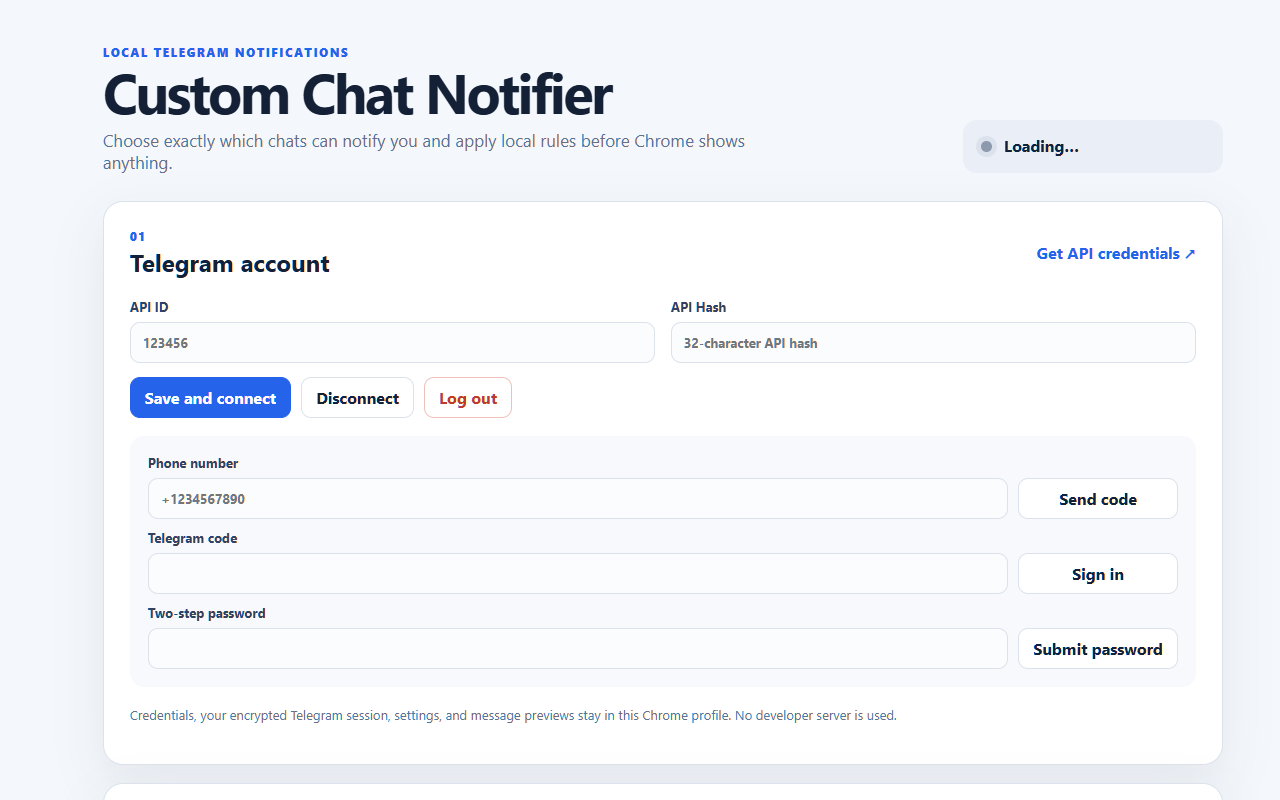
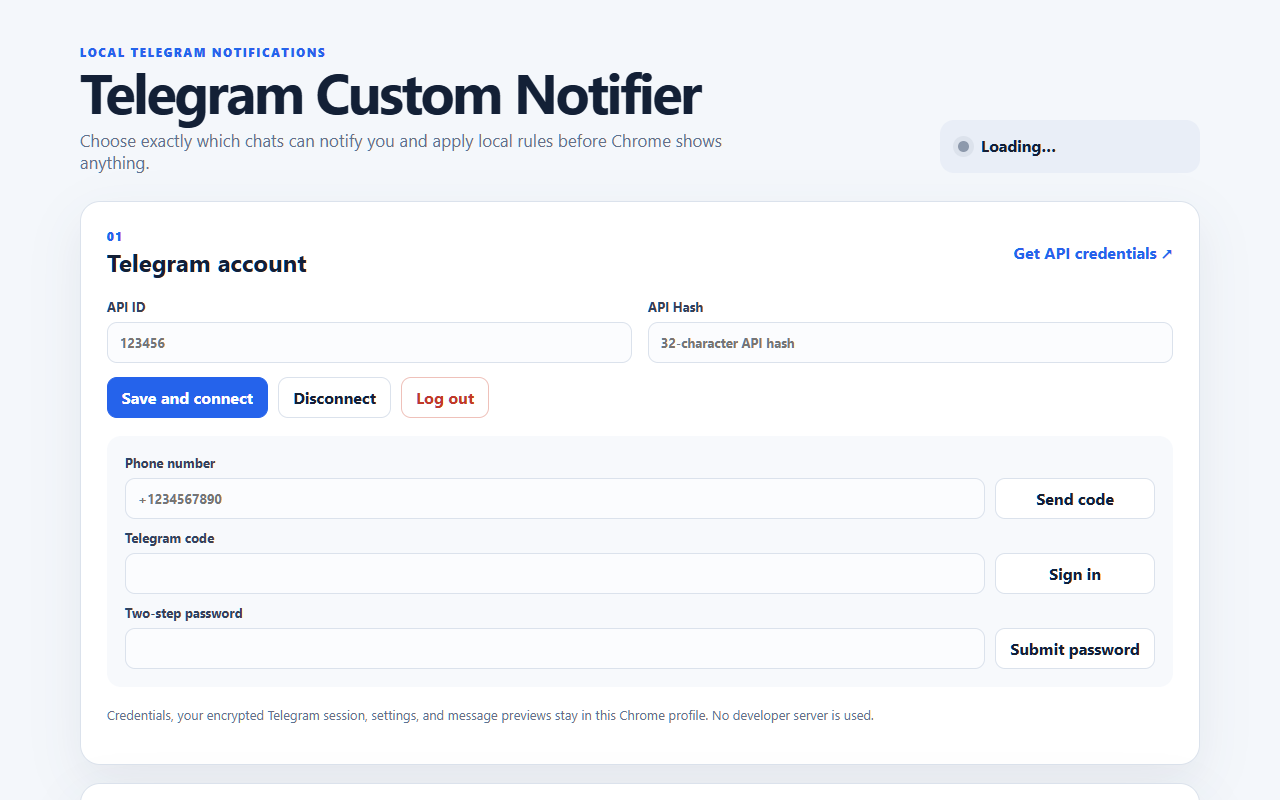
Release Telegram Custom Notifier v1.1.0

diff --git a/tests/config.test.ts b/tests/config.test.ts
@@ -1,5 +1,11 @@
 import { describe, expect, it } from 'vitest'
-import { DEFAULT_CONFIG, normalizeConfig } from '../src/shared/config'
+import {
+  DEFAULT_CONFIG,
+  exportConfig,
+  importConfig,
+  isSettingsBackupFile,
+  normalizeConfig
+} from '../src/shared/config'
 
 describe('normalizeConfig', () => {
   it('returns independent defaults for missing input', () => {
@@ -38,5 +44,76 @@ describe('normalizeConfig', () => {
         '1': { mentionsOnly: true, senderIds: ['42'], threadIds: ['7'], requiredKeywords: ['urgent'] }
       }
     })
+  })
+
+  it('imports the Android settings format', () => {
+    expect(importConfig({
+      version: 1,
+      favoriteChats: [1, -1002],
+      hiddenChats: [3],
+      globalDirection: 'BOTH',
+      chatDirections: { 1: 'OUTGOING' },
+      textFilters: ['spam'],
+      regexFilters: ['buy\\s+now'],
+      notificationsEnabled: false,
+      showMessagePreviews: false,
+      quietHoursEnabled: true,
+      quietStartMinutes: 60,
+      quietEndMinutes: 120,
+      chatRules: {
+        1: { mentionsOnly: true, senderIds: [42], threadIds: [7], requiredKeywords: ['urgent'] }
+      }
+    })).toEqual({
+      version: 1,
+      notificationsEnabled: false,
+      showMessagePreviews: false,
+      selectedChatIds: ['1', '-1002'],
+      hiddenChatIds: ['3'],
+      globalDirection: 'both',
+      chatDirections: { '1': 'outgoing' },
+      textFilters: ['spam'],
+      regexFilters: ['buy\\s+now'],
+      quietHours: { enabled: true, startMinutes: 60, endMinutes: 120 },
+      chatRules: {
+        '1': { mentionsOnly: true, senderIds: ['42'], threadIds: ['7'], requiredKeywords: ['urgent'] }
+      }
+    })
+  })
+
+  it('exports the Android settings format', () => {
+    expect(exportConfig(normalizeConfig({
+      selectedChatIds: ['1'],
+      hiddenChatIds: ['-1002'],
+      globalDirection: 'outgoing',
+      chatDirections: { 1: 'both' },
+      quietHours: { enabled: true, startMinutes: 60, endMinutes: 120 },
+      chatRules: { 1: { mentionsOnly: false, senderIds: ['42'], threadIds: ['7'], requiredKeywords: ['urgent'] } }
+    }))).toEqual({
+      version: 1,
+      favoriteChats: [1],
+      hiddenChats: [-1002],
+      globalDirection: 'OUTGOING',
+      chatDirections: { '1': 'BOTH' },
+      textFilters: [],
+      regexFilters: [],
+      notificationsEnabled: true,
+      showMessagePreviews: true,
+      quietHoursEnabled: true,
+      quietStartMinutes: 60,
+      quietEndMinutes: 120,
+      chatRules: {
+        '1': { mentionsOnly: false, senderIds: [42], threadIds: [7], requiredKeywords: ['urgent'] }
+      }
+    })
+  })
+
+  it('rejects unsupported settings versions', () => {
+    expect(() => importConfig({ version: 2 })).toThrow('Unsupported configuration version: 2')
+  })
+
+  it('recognizes Android and legacy Chrome Saved Messages backups', () => {
+    expect(isSettingsBackupFile('telegram_notifier_settings.json')).toBe(true)
+    expect(isSettingsBackupFile('custom-chat-notifier-settings.json')).toBe(true)
+    expect(isSettingsBackupFile('other.json')).toBe(false)
   })
 })

diff --git a/src/options.ts b/src/options.ts
@@ -1,4 +1,4 @@
-import { normalizeConfig, type AppConfig, type ChatRule, type Direction } from './shared/config'
+import { exportConfig, importConfig, normalizeConfig, SETTINGS_BACKUP_FILE, type AppConfig, type ChatRule, type Direction } from './shared/config'
 import type { AppState, BackgroundMessage, ChatInfo, Credentials } from './shared/protocol'
 
 const element = <T extends HTMLElement>(id: string): T => document.getElementById(id) as T
@@ -204,17 +204,17 @@ element('save-chat-rule').addEventListener('click', (event) => {
   void run(() => saveConfig('Advanced rules saved'))
 })
 
-element('export-settings').addEventListener('click', () => download('custom-chat-notifier-settings.json', JSON.stringify(state.config, null, 2)))
+element('export-settings').addEventListener('click', () => download(SETTINGS_BACKUP_FILE, JSON.stringify(exportConfig(state.config), null, 2)))
 element<HTMLInputElement>('import-settings').addEventListener('change', (event) => { void run(async () => {
   const file = (event.currentTarget as HTMLInputElement).files?.[0]
   if (!file || file.size > 1_000_000) throw new Error('Choose a JSON file smaller than 1 MB')
-  state.config = normalizeConfig(JSON.parse(await file.text()))
+  state.config = importConfig(JSON.parse(await file.text()))
   await saveConfig('Settings imported')
   renderState()
 }) })
-element('backup-saved').addEventListener('click', () => { void run(async () => { await send({ target: 'background', type: 'RUNTIME_COMMAND', command: 'BACKUP_SAVED', payload: state.config }); toast('Backup sent to Saved Messages') }) })
-element('restore-saved').addEventListener('click', () => { void run(async () => { state.config = normalizeConfig(await send({ target: 'background', type: 'RUNTIME_COMMAND', command: 'RESTORE_SAVED' })); await saveConfig('Settings restored from Saved Messages'); renderState() }) })
-element('export-logs').addEventListener('click', () => download('custom-chat-notifier.log', element('logs').textContent ?? '', 'text/plain'))
+element('backup-saved').addEventListener('click', () => { void run(async () => { await send({ target: 'background', type: 'RUNTIME_COMMAND', command: 'BACKUP_SAVED', payload: exportConfig(state.config) }); toast('Backup sent to Saved Messages') }) })
+element('restore-saved').addEventListener('click', () => { void run(async () => { state.config = importConfig(await send({ target: 'background', type: 'RUNTIME_COMMAND', command: 'RESTORE_SAVED' })); await saveConfig('Settings restored from Saved Messages'); renderState() }) })
+element('export-logs').addEventListener('click', () => download('telegram-custom-notifier.log', element('logs').textContent ?? '', 'text/plain'))
 element('clear-logs').addEventListener('click', () => { void run(async () => { await send({ target: 'background', type: 'CLEAR_LOGS' }); state.logs = []; renderLogs(); toast('Log cleared') }) })
 
 chrome.storage.onChanged.addListener((changes, area) => {

diff --git a/src/shared/config.ts b/src/shared/config.ts
@@ -52,6 +52,9 @@ export const DEFAULT_CONFIG: AppConfig = {
   chatRules: {}
 }
 
+export const SETTINGS_BACKUP_FILE = 'telegram_notifier_settings.json'
+const LEGACY_SETTINGS_BACKUP_FILE = 'custom-chat-notifier-settings.json'
+
 const directions = new Set<Direction>(['incoming', 'outgoing', 'both', 'none'])
 
 function cleanStrings(value: unknown): string[] {
@@ -125,4 +128,58 @@ export function normalizeConfig(value: unknown): AppConfig {
     },
     chatRules
   }
+}
+
+function portableId(value: string): string | number {
+  const number = Number(value)
+  return Number.isSafeInteger(number) ? number : value
+}
+
+function portableIds(values: string[]): Array<string | number> {
+  return values.map(portableId)
+}
+
+export function importConfig(value: unknown): AppConfig {
+  if (!value || typeof value !== 'object' || Array.isArray(value)) throw new Error('Configuration must be a JSON object')
+  const input = value as Record<string, unknown>
+  const version = Number(input.version ?? 1)
+  if (version !== 1) throw new Error(`Unsupported configuration version: ${version}`)
+  if (!('favoriteChats' in input) && !('quietHoursEnabled' in input)) return normalizeConfig(input)
+  return normalizeConfig({
+    ...input,
+    selectedChatIds: input.favoriteChats,
+    hiddenChatIds: input.hiddenChats,
+    quietHours: {
+      enabled: input.quietHoursEnabled,
+      startMinutes: input.quietStartMinutes,
+      endMinutes: input.quietEndMinutes
+    }
+  })
+}
+
+export function exportConfig(value: AppConfig): Record<string, unknown> {
+  const config = normalizeConfig(value)
+  return {
+    version: 1,
+    favoriteChats: portableIds(config.selectedChatIds),
+    hiddenChats: portableIds(config.hiddenChatIds),
+    globalDirection: config.globalDirection.toUpperCase(),
+    chatDirections: Object.fromEntries(Object.entries(config.chatDirections).map(([id, value]) => [id, value.toUpperCase()])),
+    textFilters: config.textFilters,
+    regexFilters: config.regexFilters,
+    notificationsEnabled: config.notificationsEnabled,
+    showMessagePreviews: config.showMessagePreviews,
+    quietHoursEnabled: config.quietHours.enabled,
+    quietStartMinutes: config.quietHours.startMinutes,
+    quietEndMinutes: config.quietHours.endMinutes,
+    chatRules: Object.fromEntries(Object.entries(config.chatRules).map(([id, rule]) => [id, {
+      ...rule,
+      senderIds: portableIds(rule.senderIds),
+      threadIds: portableIds(rule.threadIds)
+    }]))
+  }
+}
+
+export function isSettingsBackupFile(fileName: string | null | undefined): boolean {
+  return fileName === SETTINGS_BACKUP_FILE || fileName === LEGACY_SETTINGS_BACKUP_FILE
 }

diff --git a/src/popup.ts b/src/popup.ts
@@ -1,3 +1,4 @@
+import { exportConfig, importConfig, SETTINGS_BACKUP_FILE } from './shared/config'
 import type { AppState, BackgroundMessage } from './shared/protocol'
 
 const get = <T extends HTMLElement>(id: string): T => document.getElementById(id) as T
@@ -6,6 +7,14 @@ async function send(message: BackgroundMessage): Promise<unknown> {
   const response = await chrome.runtime.sendMessage(message) as { ok: boolean; data?: unknown; error?: string }
   if (!response?.ok) throw new Error(response?.error || 'Request failed')
   return response.data
+}
+
+function download(name: string, text: string): void {
+  const anchor = document.createElement('a')
+  anchor.href = URL.createObjectURL(new Blob([text], { type: 'application/json' }))
+  anchor.download = name
+  anchor.click()
+  URL.revokeObjectURL(anchor.href)
 }
 
 void (async () => {
@@ -20,5 +29,21 @@ void (async () => {
     await send({ target: 'background', type: 'SAVE_CONFIG', config: state.config })
   })
   get('open-settings').addEventListener('click', () => { void chrome.runtime.openOptionsPage() })
+  get('popup-export').addEventListener('click', () => download(SETTINGS_BACKUP_FILE, JSON.stringify(exportConfig(state.config), null, 2)))
+  get<HTMLInputElement>('popup-import').addEventListener('change', (event) => { void (async () => {
+    const input = event.currentTarget as HTMLInputElement
+    const file = input.files?.[0]
+    if (!file) return
+    try {
+      if (file.size > 1_000_000) throw new Error('Choose a JSON file smaller than 1 MB')
+      state.config = importConfig(JSON.parse(await file.text()))
+      await send({ target: 'background', type: 'SAVE_CONFIG', config: state.config })
+      get('popup-selected').textContent = `${state.config.selectedChatIds.length} chats selected`
+      get<HTMLInputElement>('popup-enabled').checked = state.config.notificationsEnabled
+      get('popup-status').textContent = 'Settings imported'
+    } catch (error) {
+      get('popup-status').textContent = error instanceof Error ? error.message : String(error)
+    } finally { input.value = '' }
+  })() })
   get('popup-test').addEventListener('click', () => { void send({ target: 'background', type: 'TEST_NOTIFICATION' }) })
 })()

diff --git a/popup.html b/popup.html
@@ -1,11 +1,18 @@
 <!doctype html>
 <html lang="en">
-  <head><meta charset="UTF-8"><meta name="viewport" content="width=device-width, initial-scale=1.0"><title>Custom Chat Notifier</title><link rel="stylesheet" href="/src/ui.css"></head>
+  <head><meta charset="UTF-8"><meta name="viewport" content="width=device-width, initial-scale=1.0"><title>Telegram Custom Notifier</title><link rel="stylesheet" href="/src/ui.css"></head>
   <body class="popup-body">
     <main class="popup">
-      <div class="brand"><img src="/icons/icon-48.png" width="40" height="40" alt=""><div><strong>Custom Chat Notifier</strong><span id="popup-status">Loading…</span></div></div>
+      <div class="brand"><img src="/icons/icon-48.png" width="40" height="40" alt=""><div><strong>Telegram Custom Notifier</strong><span id="popup-status">Loading…</span></div></div>
       <div class="switch-row"><div><strong>Notifications</strong><span id="popup-selected">0 chats selected</span></div><input id="popup-enabled" type="checkbox" role="switch"></div>
-      <div class="actions vertical"><button id="open-settings" class="primary">Open settings</button><button id="popup-test">Send test notification</button></div>
+      <div class="actions vertical">
+        <button id="open-settings" class="primary">Open settings</button>
+        <div class="actions popup-data-actions">
+          <button id="popup-export">Export JSON</button>
+          <label class="file-button">Import JSON<input id="popup-import" type="file" accept="application/json,.json"></label>
+        </div>
+        <button id="popup-test">Send test notification</button>
+      </div>
     </main>
     <script type="module" src="/src/popup.ts"></script>
   </body>

diff --git a/src/telegram-worker.ts b/src/telegram-worker.ts
@@ -1,9 +1,8 @@
 import { InputMedia, TelegramClient, type Message, type TelegramClient as TelegramClientType } from '@mtcute/web'
-import type { NotificationEvent } from './shared/config'
+import { isSettingsBackupFile, SETTINGS_BACKUP_FILE, type NotificationEvent } from './shared/config'
 import type { BackgroundMessage, ChatInfo, Credentials, OffscreenMessage, RuntimeState } from './shared/protocol'
 import { chatType, mediaKind, messageUrl } from './shared/telegram-mapper'
 
-const BACKUP_FILE = 'custom-chat-notifier-settings.json'
 let client: TelegramClientType | null = null
 let credentialsKey = ''
 let pendingCode: { phone: string; phoneCodeHash: string } | null = null
@@ -113,16 +112,16 @@ async function removeChat(payload: unknown): Promise<void> {
 async function backupToSavedMessages(payload: unknown): Promise<void> {
   const json = JSON.stringify(payload, null, 2)
   await requireClient().sendMedia('self', InputMedia.document(new Blob([json], { type: 'application/json' }), {
-    fileName: BACKUP_FILE,
+    fileName: SETTINGS_BACKUP_FILE,
     fileMime: 'application/json'
-  }), { caption: 'Custom Chat Notifier settings backup' })
+  }), { caption: 'Telegram Custom Notifier settings backup' })
 }
 
 async function restoreFromSavedMessages(): Promise<unknown> {
   const tg = requireClient()
   for await (const message of tg.iterHistory('self', { limit: 100 })) {
     const media = message.media
-    if (media?.type !== 'document' || media.fileName !== BACKUP_FILE) continue
+    if (media?.type !== 'document' || !isSettingsBackupFile(media.fileName)) continue
     const bytes = await tg.downloadAsBuffer(media)
     return JSON.parse(new TextDecoder().decode(bytes))
   }

diff --git a/src/service-worker.ts b/src/service-worker.ts
@@ -146,7 +146,7 @@ chrome.runtime.onMessage.addListener((message: BackgroundMessage, _sender, sendR
           break
         case 'RUNTIME_COMMAND': sendResponse({ ok: true, data: await sendRuntimeCommand(message.command, message.payload) }); break
         case 'TEST_NOTIFICATION':
-          await chrome.notifications.create('test', { type: 'basic', iconUrl: 'icons/icon-128.png', title: 'Custom Chat Notifier test', message: 'Notifications are working.', priority: 2 })
+          await chrome.notifications.create('test', { type: 'basic', iconUrl: 'icons/icon-128.png', title: 'Telegram Custom Notifier test', message: 'Notifications are working.', priority: 2 })
           sendResponse({ ok: true })
           break
         case 'CLEAR_LOGS': await chrome.storage.local.set({ [KEYS.logs]: [] }); sendResponse({ ok: true }); break

diff --git a/src/ui.css b/src/ui.css
@@ -67,4 +67,5 @@ dialog::backdrop { background:rgba(18,27,45,.5); }
 .brand { display:flex; align-items:center; gap:12px; margin-bottom:12px; }
 .brand div { display:flex; flex-direction:column; }
 .brand span { color:var(--muted); font-size:12px; text-transform:capitalize; }
+.popup-data-actions > * { flex:1; justify-content:center; }
 @media (max-width:760px) { .hero { align-items:stretch; flex-direction:column; } .status-card { min-width:0; } .grid.two,.chat-tools { grid-template-columns:1fr; } .chat-row { grid-template-columns:1fr 1fr; } .chat-main { grid-column:1/-1; } .quiet-control { grid-template-columns:1fr 1fr; } .quiet-control .inline-check { grid-column:1/-1; } }

diff --git a/options.html b/options.html
@@ -3,7 +3,7 @@
   <head>
     <meta charset="UTF-8">
     <meta name="viewport" content="width=device-width, initial-scale=1.0">
-    <title>Custom Chat Notifier</title>
+    <title>Telegram Custom Notifier</title>
     <link rel="stylesheet" href="/src/ui.css">
   </head>
   <body>
@@ -11,7 +11,7 @@
       <header class="hero">
         <div>
           <p class="eyebrow">LOCAL TELEGRAM NOTIFICATIONS</p>
-          <h1>Custom Chat Notifier</h1>
+          <h1>Telegram Custom Notifier</h1>
           <p>Choose exactly which chats can notify you and apply local rules before Chrome shows anything.</p>
         </div>
         <div class="status-card" aria-live="polite">

diff --git a/tests/popup.test.ts b/tests/popup.test.ts
@@ -1,0 +1,11 @@
+import { readFileSync } from 'node:fs'
+import { describe, expect, it } from 'vitest'
+
+describe('popup', () => {
+  it('keeps import and export available without opening settings', () => {
+    const html = readFileSync(new URL('../popup.html', import.meta.url), 'utf8')
+
+    expect(html).toContain('id="popup-export"')
+    expect(html).toContain('id="popup-import"')
+  })
+})

diff --git a/PRIVACY.md b/PRIVACY.md
@@ -1,10 +1,10 @@
-# Privacy Policy for Custom Chat Notifier
+# Privacy Policy for Telegram Custom Notifier
 
 Last updated: August 30, 2026
 
 ## What data the extension handles
 
-Custom Chat Notifier handles the Telegram API ID and API Hash supplied by the user, Telegram authorization data, selected chat identifiers, notification preferences, message-filter rules, chat metadata, and Telegram message contents needed to evaluate those rules and show local notifications.
+Telegram Custom Notifier handles the Telegram API ID and API Hash supplied by the user, Telegram authorization data, selected chat identifiers, notification preferences, message-filter rules, chat metadata, and Telegram message contents needed to evaluate those rules and show local notifications.
 
 The extension does not request or process general browsing history or content from websites the user visits.
 
@@ -32,7 +32,7 @@ Data is not sold, rented, or shared with advertisers or data brokers. Data is ex
 
 ## Retention, export, and deletion
 
-Settings remain in the current Chrome profile until the user changes them, clears extension data, or removes the extension. The user can export settings and diagnostic logs from the options page. Logging out revokes the active Telegram authorization used by the extension. Removing the extension deletes its Chrome-owned local storage and IndexedDB data.
+Settings remain in the current Chrome profile until the user changes them, clears extension data, or removes the extension. The user can import or export Android-compatible settings JSON and export diagnostic logs from the options page. Logging out revokes the active Telegram authorization used by the extension. Removing the extension deletes its Chrome-owned local storage and IndexedDB data.
 
 If the user explicitly backs up settings to Saved Messages, that backup remains in the user's Telegram account until the user deletes it in Telegram.
 

diff --git a/README.md b/README.md
@@ -1,4 +1,4 @@
-# Custom Chat Notifier
+# Telegram Custom Notifier
 
 A Manifest V3 Chrome extension that connects directly to a Telegram account and shows local desktop notifications only for chats and messages that match your rules.
 
@@ -16,13 +16,13 @@ The extension is independent, open source, and not affiliated with or endorsed b
 - Forum-topic titles formatted as `Group name - Topic name`.
 - Separate notification conversations by chat, topic, and sender.
 - Notification clicks open a Telegram message link when available; private conversations fall back to Telegram Web.
-- JSON settings import/export and settings backup/restore through Saved Messages.
+- Android-compatible JSON settings import/export and settings backup/restore through Saved Messages, with legacy Chrome backup support.
 - Leave groups/channels, delete private history, and optionally block bots.
 - Local health state, test notification, unread badge, and exportable diagnostic log without message contents.
 
 ## Install from a GitHub release
 
-1. Download `custom-chat-notifier-v1.0.0.zip` from the latest release and extract it.
+1. Download the ZIP from the latest release and extract it.
 2. Open `chrome://extensions`.
 3. Enable **Developer mode**.
 4. Select **Load unpacked** and choose the extracted folder.
@@ -62,7 +62,7 @@ npm run check
 npm run package
 ```
 
-`npm run check` runs 13 focused tests, TypeScript validation, and the production Vite build. The package script creates a clean ZIP from `dist/` under `release-artifacts/` and prints its SHA-256.
+`npm run check` runs 18 focused tests, TypeScript validation, and the production Vite build. The package script creates a clean ZIP from `dist/` under `release-artifacts/` and prints its SHA-256.
 
 ## Architecture
 
